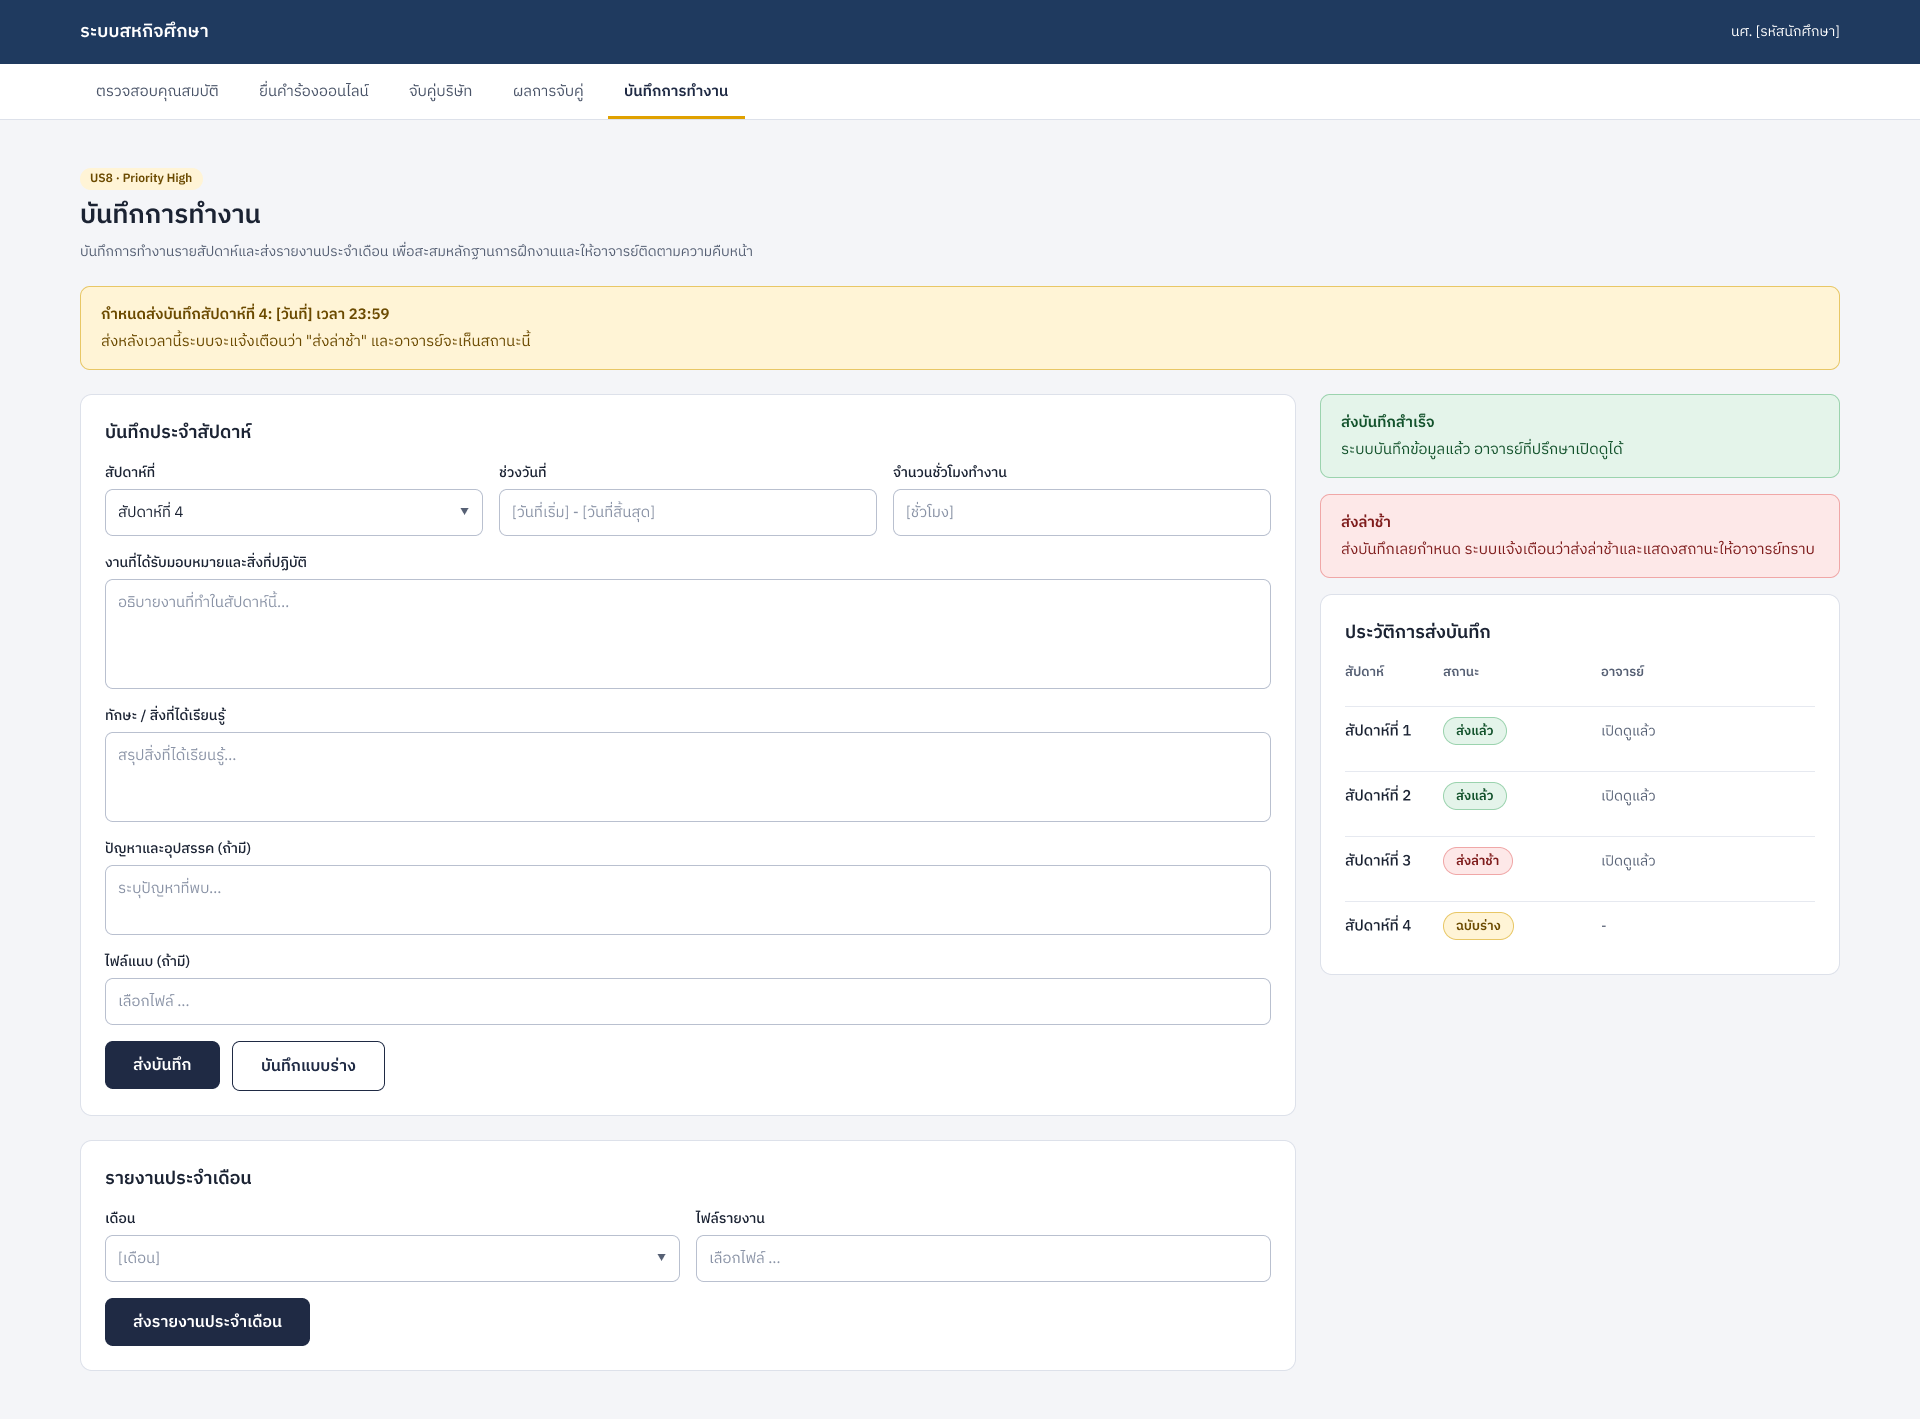
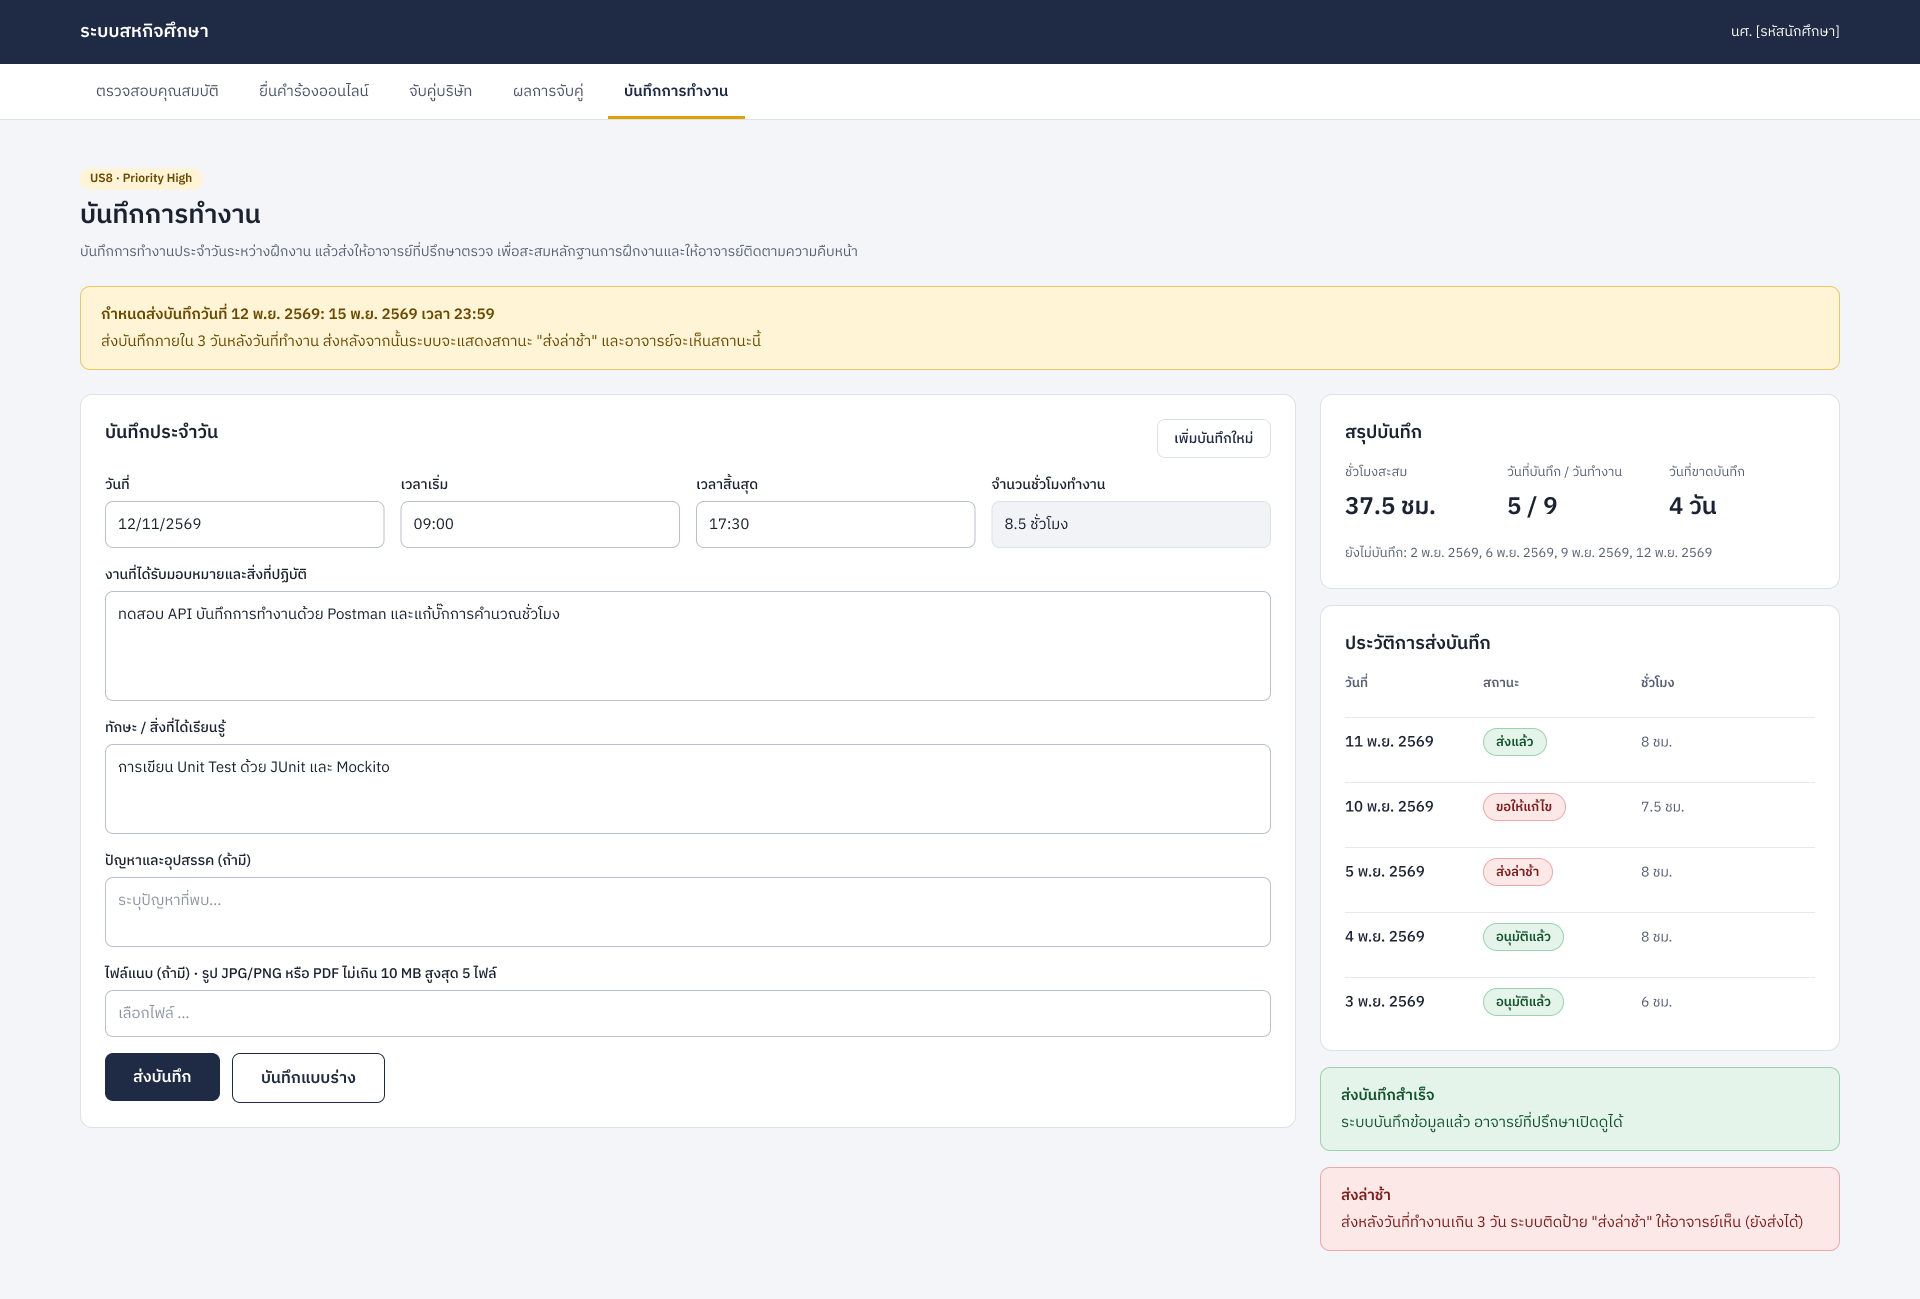
Edit U3:T1,T2,T3,T4, Upload and replace U3 image files

diff --git a/.doc/UserStory/U8/T1.md b/.doc/UserStory/U8/T1.md
@@ -38,11 +38,11 @@
 | BR8-3 | 1 การฝึกงาน บันทึกได้ 1 รายการต่อวัน (unique `internship_id + log_date`) |
 | BR8-4 | ชั่วโมงคำนวณจาก `startTime`–`endTime` (เวลาสิ้นสุดต้องหลังเวลาเริ่ม) ต้องได้ 0.5–12 ชั่วโมง |
 | BR8-5 | `activity` (งานที่ทำ) บังคับกรอก · `learning`, `problem` ไม่บังคับ · แต่ละช่องไม่เกิน 2000 ตัวอักษร |
-| BR8-6 | ไฟล์แนบผูกกับบันทึกแต่ละวัน: PDF / JPG / PNG ไฟล์ละไม่เกิน 10 MB ไม่เกิน 5 ไฟล์ต่อบันทึก |
+| BR8-6 | ไฟล์แนบผูกกับบันทึกแต่ละวัน: ชนิด `application/pdf`, `image/jpeg`, `image/png` (นามสกุล .pdf .jpg .jpeg .png) ไฟล์ละไม่เกิน 10 MB ไม่เกิน 5 ไฟล์ต่อบันทึก |
 | BR8-7 | แก้ไข / แนบไฟล์ / ลบไฟล์แนบ ได้เฉพาะ `DRAFT` และ `NEED_REVISION` · ลบบันทึกได้เฉพาะ `DRAFT` |
-| BR8-8 | ส่งหลังวันที่บันทึกเกิน 3 วัน ระบบติดป้าย "ส่งล่าช้า" (`lateSubmitted = true`) แต่ยังส่งได้ |
+| BR8-8 | ส่งหลังวันที่บันทึกเกิน 3 วัน ระบบติดป้าย "ส่งล่าช้า" แต่ยังส่งได้ · `lateSubmitted` ไม่ได้เก็บเป็นคอลัมน์ คำนวณทุกครั้งจาก `submitted_at` − `log_date` > 3 วัน · การส่งแต่ละครั้งเขียนทับ `submitted_at` ดังนั้นบันทึกที่ถูกส่งกลับแก้ไขแล้วส่งใหม่ จะคิดล่าช้าใหม่จากวันที่ส่งครั้งล่าสุด |
 | BR8-9 | ส่งกลับแก้ไขต้องมีความเห็นเสมอ · อนุมัติหลายรายการได้ครั้งละไม่เกิน 100 รายการ |
-| BR8-10 | ชั่วโมงสะสมนับเฉพาะบันทึกที่ไม่ใช่ `DRAFT` · วันทำงาน = วันจันทร์–ศุกร์ ตั้งแต่วันเริ่มฝึกถึงวันนี้ (หรือวันสิ้นสุดการฝึก) |
+| BR8-10 | ชั่วโมงสะสมนับเฉพาะบันทึกที่ไม่ใช่ `DRAFT` · วันทำงาน = วันจันทร์–ศุกร์ ตั้งแต่วันเริ่มฝึกถึงวันนี้ (หรือวันสิ้นสุดการฝึก) · **ข้อจำกัด:** ยังไม่หักวันหยุดราชการและวันหยุดของบริษัท วันหยุดเหล่านี้จึงแสดงเป็นวันที่ขาดบันทึก |
 | BR8-11 | สิทธิ์: นักศึกษาเห็นเฉพาะการฝึกงานของตน · อาจารย์เห็นเฉพาะนักศึกษาในที่ปรึกษาและไม่เห็น `DRAFT` · เจ้าหน้าที่เห็นทุกการฝึกงาน (ยกเว้น `DRAFT`) |
 
 ## Use case
@@ -64,6 +64,7 @@
 | เรื่อง | เหตุผล / ทำต่อที่ไหน |
 |---|---|
 | ชั่วโมงขั้นต่ำที่ต้องฝึก และการตั้งค่าเกณฑ์ (`minHours`, `reminderDays`) | ยังไม่มี API ตั้งค่าและ field ใน `WorkLogSummaryResponse` · ตอนนี้ US8-b เทียบกับวันทำงานแทน |
-| หน้าเจ้าหน้าที่ติดตามทุกคน + ส่งแจ้งเตือนคนขาดส่ง | ต่อยอดใน US7 ผ่าน `StudentStatusResponse.attention` (`MISSING_LOG`, `LOG_PENDING`) |
+| หน้าเจ้าหน้าที่ติดตามทุกคน + ส่งแจ้งเตือนคนขาดส่ง | **แผนในอนาคต** รอ US7 (ยังไม่มีในโปรเจกต์): ออกแบบไว้ให้ US7 แสดงผ่าน `StudentStatusResponse.attention` (`MISSING_LOG`, `LOG_PENDING`) · ตอนนี้ US8 เตรียมไว้แค่ `WorkLogService.hasPendingReview()` ให้ US7 เรียกใช้ |
 | ส่งออกสมุดบันทึกเป็น PDF และให้นักศึกษาส่งออกเอง | ตอนนี้ส่งออกเป็น CSV สำหรับอาจารย์ / เจ้าหน้าที่ |
 | รายงานประจำเดือน | ไม่มี use case และ API รองรับ |
+| วันหยุดราชการ / วันหยุดของบริษัท | ต้องมีตารางวันหยุดก่อน จึงจะหักออกจากวันทำงานใน BR8-10 ได้ |

diff --git a/.doc/UserStory/U8/T4.md b/.doc/UserStory/U8/T4.md
@@ -90,10 +90,9 @@ Error code ตาม Sequence Diagram: `403 FORBIDDEN`, `409 INTERNSHIP_NOT_IN_P
 
 - **ยังไม่มีงาน US7 ในโปรเจกต์**: จึงสร้าง `Internship` + `InternshipDao` เฉพาะคอลัมน์ที่ US8 ใช้ไว้ก่อน และเพิ่ม `GET /api/internships/me` ให้หน้าเว็บหา internshipId ได้ ส่วน `StudentStatusService` / `InternshipService` (extended) และค่า `MISSING_LOG`, `LOG_PENDING` ยังไม่ได้ทำ แต่เตรียม `WorkLogService.hasPendingReview()` ไว้ให้ US7 เรียกแล้ว
 - **`WorkLogDetailResponse`** เขียนเป็น record ที่มี field ของ `WorkLogResponse` ครบ เพราะ record สืบทอดกันไม่ได้ (JSON ออกมาเหมือนกัน)
-- **UI ตาม prototype เดิมเป็นรายสัปดาห์และมีรายงานประจำเดือน**: ปรับเป็นบันทึกรายวันตาม API Spec / DTO และตัดส่วนรายงานประจำเดือนออก เพราะไม่มี API รองรับ
+- **UI ตาม prototype เดิมเป็นรายสัปดาห์และมีรายงานประจำเดือน**: ปรับเป็นบันทึกรายวันตาม API Spec / DTO และตัดส่วนรายงานประจำเดือนออก เพราะไม่มี API รองรับ (อัปเดตรูป prototype ใน T2 เป็นหน้ารายวันแล้ว)
 - **หน้าอาจารย์ตรวจบันทึก**: มี API ครบ แต่ยังไม่ได้ทำหน้า UI (prototype มีเฉพาะหน้านักศึกษา)
 - **ฐานข้อมูลเดิม**: ถ้าคอลัมน์ `notifications.type` ถูกสร้างเป็น ENUM ของ MySQL ไว้ก่อน ค่าใหม่ `WORK_LOG_*` จะบันทึกไม่ได้ ให้ `docker compose down -v` แล้วรันใหม่ หรือ `ALTER TABLE notifications MODIFY type VARCHAR(50)`
-- **Test cases ใน Task3 (T3.md)** ออกแบบไว้ก่อนมี API Spec (ใช้ projectId และห้ามช่วงเวลาซ้อน) test ที่เขียนจึงยึด API Spec แทน (1 วัน 1 บันทึก, สถานะ DRAFT / SUBMITTED / NEED_REVISION / APPROVED) ควรปรับ T3.md ให้ตรงกัน
 
 ## 4. รายงานผล Unit Test
 

diff --git a/.doc/UserStory/U8/T2.md b/.doc/UserStory/U8/T2.md
@@ -1,3 +1,55 @@
-UI prototype
--
-![.doc/UserStory/U8/US8 WorkLog.png](<US8 WorkLog.png>)
+# Task2:US8:Design (UI Prototype, API Spec, Class Diagram, Sequence Diagram + ER Diagram)
+
+User story U8: นักศึกษาบันทึกการทำงานประจำวันระหว่างฝึกงาน (งานที่ทำ ชั่วโมง สิ่งที่ได้เรียนรู้ ปัญหา + แนบไฟล์) แล้วส่งให้อาจารย์ที่ปรึกษาตรวจ → อาจารย์อนุมัติหรือส่งกลับแก้ไข และระบบแจ้งผลให้นักศึกษา
+
+อ้างอิง Requirement: [T1.md](T1.md) · Test cases: [T3.md](T3.md)
+
+## 1. UI Prototype
+
+หน้าบันทึกการทำงานประจำวันของนักศึกษา (`frontend/worklog.html`): ฟอร์มรายวัน (วันที่ เวลาเริ่ม–สิ้นสุด คำนวณชั่วโมงอัตโนมัติ งานที่ทำ สิ่งที่ได้เรียนรู้ ปัญหา ไฟล์แนบ) การ์ดสรุปชั่วโมงและวันที่ขาดบันทึก และประวัติพร้อมสถานะ
+
+![UI Prototype](<US8 WorkLog.png>)
+
+## 2. API Specification
+
+![API Spec](us8-01-api-spec.png)
+
+## 3. DTO
+
+![DTO](us8-02-dto.png)
+
+## 4. Class Diagram
+
+### API (Controller + Service)
+
+![Class Diagram API](us8-03-class-api.png)
+
+### Extended API (คลาสเดิมที่เพิ่ม method / field)
+
+![Class Diagram Extended API](us8-04-class-extended-api.png)
+
+### DTO
+
+![Class Diagram DTO](us8-05-class-dto.png)
+
+### DAO + Entity
+
+![Class Diagram DAO](us8-06-class-dao.png)
+
+## 5. Sequence Diagram
+
+### นักศึกษาบันทึก แนบไฟล์ และส่งบันทึก
+
+![Sequence create / submit](us8-07-seq-create-submit-log.png)
+
+### อาจารย์ตรวจบันทึกการทำงาน
+
+![Sequence review](us8-08-seq-review-log.png)
+
+### ดูสรุปชั่วโมงและวันที่ขาดบันทึก
+
+![Sequence summary](us8-09-seq-log-summary.png)
+
+## 6. ER Diagram
+
+![ER Diagram](us8-10-er-diagram.png)

diff --git a/.doc/UserStory/U8/T3.md b/.doc/UserStory/U8/T3.md
@@ -7,7 +7,7 @@
 - นักศึกษาบันทึกงานรายวันของการฝึกงาน (`internshipId`): `logDate`, `startTime`, `endTime`, `activity` (บังคับ), `learning`, `problem` (แต่ละช่องไม่เกิน 2000 ตัวอักษร)
 - ระบบคำนวณ `hours` จาก startTime–endTime ต้องได้ 0.5–12 ชั่วโมง · 1 การฝึกงานบันทึกได้ 1 รายการต่อวัน · ห้ามวันในอนาคตหรือนอกช่วงฝึก · การฝึกงานต้อง `IN_PROGRESS`
 - สถานะ: `DRAFT → SUBMITTED → APPROVED` · ส่งกลับแก้ไข = `NEED_REVISION` → ส่งใหม่ = `SUBMITTED` · แก้ได้เฉพาะ DRAFT / NEED_REVISION · ลบได้เฉพาะ DRAFT
-- ไฟล์แนบต่อบันทึก: PDF / JPG / PNG ≤ 10 MB ไม่เกิน 5 ไฟล์ · ส่งหลังวันที่บันทึกเกิน 3 วัน = `lateSubmitted`
+- ไฟล์แนบต่อบันทึก: `application/pdf`, `image/jpeg`, `image/png` ≤ 10 MB ไม่เกิน 5 ไฟล์ · `lateSubmitted` คำนวณจาก `submitted_at` − `log_date` > 3 วัน (ส่งใหม่คิดจากครั้งล่าสุด)
 - ทุก request ส่ง header `X-User-Id` · error ตอบ `{"code": "...", "message": "..."}`
 - API: 14 endpoint ตาม `us8-01-api-spec.png` (`/api/internships/{id}/work-logs…`, `/api/work-logs/{id}…`, `/api/work-logs/pending-review`, `/review`, `/review-bulk`)
 - UI ใช้ mock fetch, API ใช้ mock `WorkLogService` / `WorkLogReviewService`, Service ใช้ mock DAO (Mockito), DAO ทดสอบกับ H2 (โหมด MySQL)
